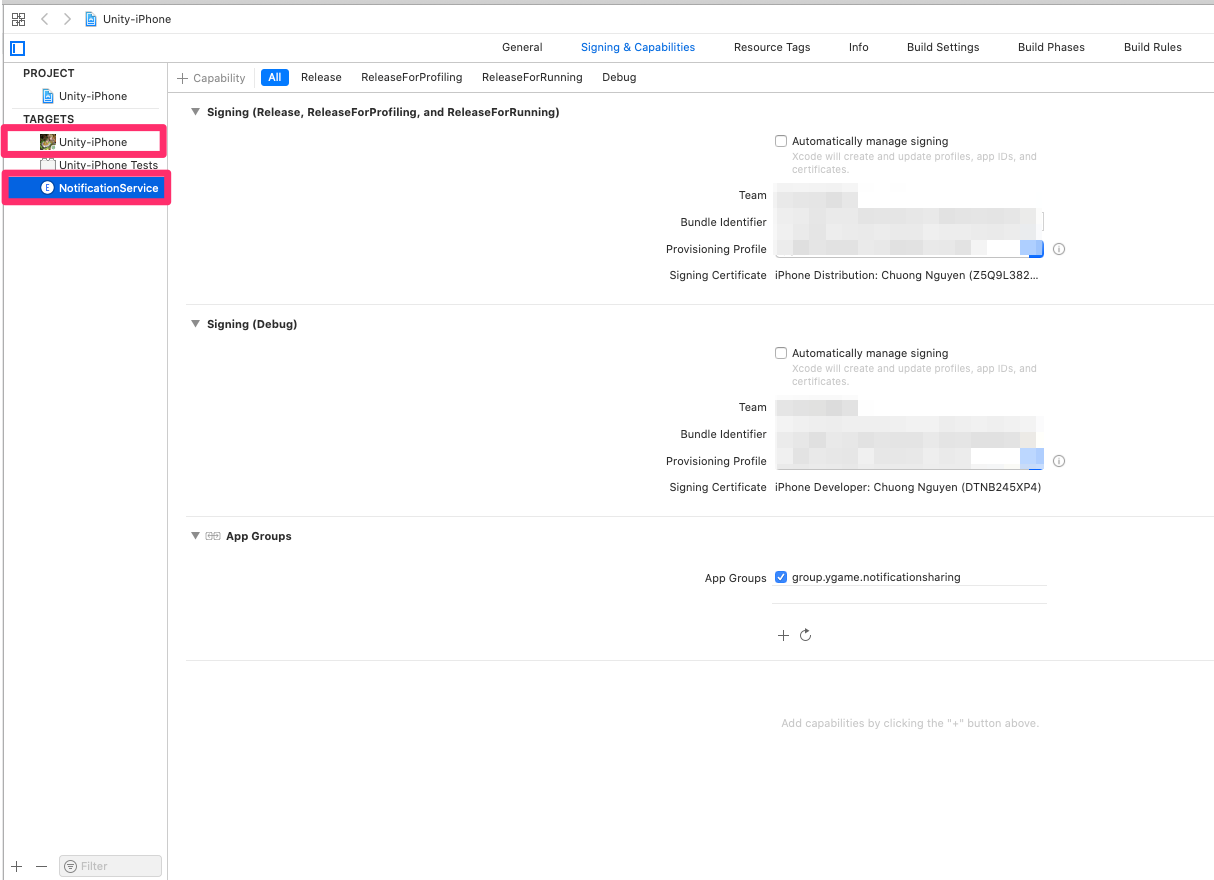
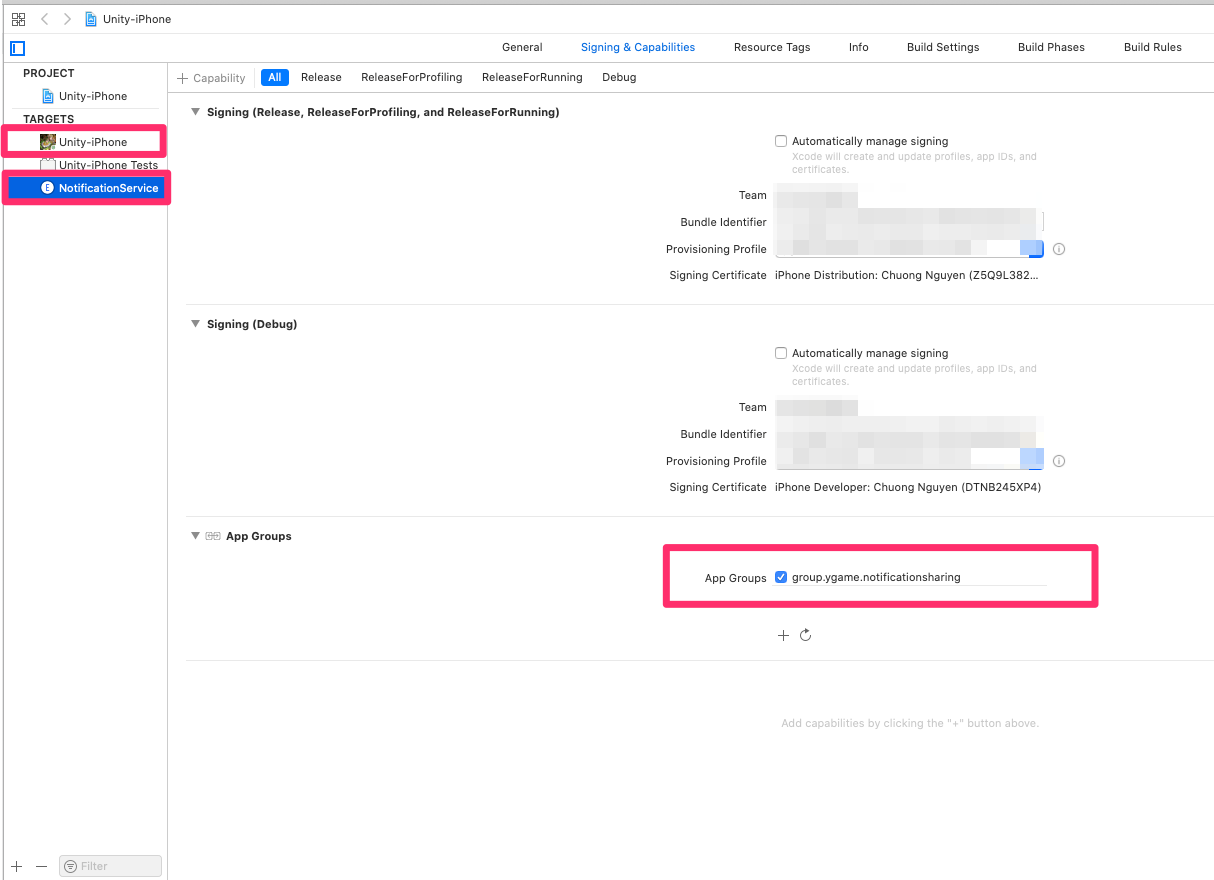
no message

Changed region(s): [[0.5181, 0.6136, 0.9143, 0.7057]]

diff --git a/ios/README.md b/ios/README.md
@@ -446,9 +446,9 @@ Fist of all, you need to config URL type in your target following below instruct
 
 ![](Images/ykit_ios_071.png)
 
-- Add App Groups in Signing & Capabilities for your project and NotificationService
+- Add App Groups in Signing & Capabilities for both your project and NotificationService
 
-![](Images/ykit_ios_08.png)
+![](Images/ykit_ios_080.png)
 
 - Add directory "Download" of YGame to your project
 
